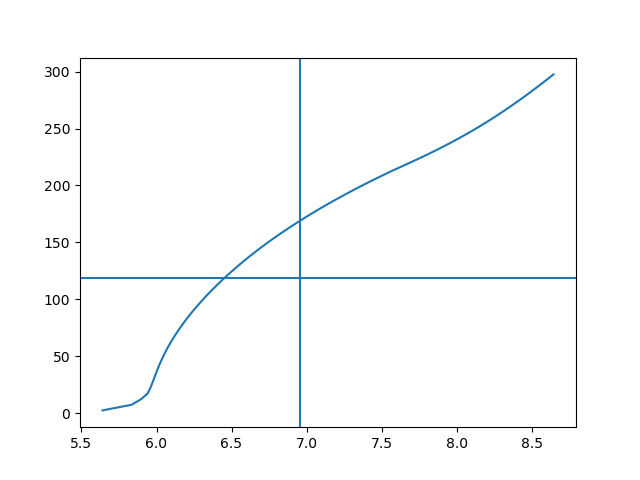
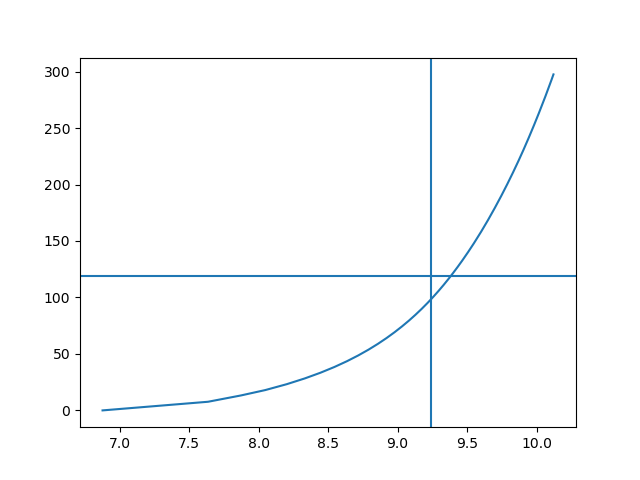
Initial changes to README.md

diff --git a/calculate_ct_single_turbine.py b/calculate_ct_single_turbine.py
@@ -8,7 +8,7 @@ import matplotlib.pyplot as plt
 import numpy as np
 import scipy.interpolate as sp
 
-for h in [1000,500,300,150]:
+for h in [150]:
 
     case_id = f'H{h}-C5-G4_st'
     print(case_id)
@@ -30,17 +30,17 @@ for h in [1000,500,300,150]:
     u_profile = np.mean(u[:,:,:60],axis=(0,1))
     v = f['v']
     v_profile = np.mean(v[:,:,:60],axis=(0,1))
-    plt.plot(u_profile, 1000*z[:60], c='b')
-    plt.plot(v_profile, 1000*z[:60], c='r')
-    plt.savefig('plots/precursor_profile.png')
+    #plt.plot(u_profile, 1000*z[:60], c='b')
+    #plt.plot(v_profile, 1000*z[:60], c='r')
+    #plt.savefig('plots/precursor_profile.png')
 
     speed = np.sqrt(u_profile**2+v_profile**2)
     #angle in degrees!
     angle = 180*np.arctan(v_profile/u_profile)/np.pi
-    plt.close()
-    plt.plot(speed, 1000*z[:60], c='b')
-    plt.plot(angle, 1000*z[:60], c='r')
-    plt.savefig('plots/precursor_speed.png')
+    #plt.close()
+    #plt.plot(speed, 1000*z[:60], c='b')
+    #plt.plot(angle, 1000*z[:60], c='r')
+    #plt.savefig('plots/precursor_speed.png')
 
     #interpolate to find velocity at hub height
     f_speed = sp.interp1d(1000*z[:60], speed, fill_value="extrapolate")
@@ -50,11 +50,23 @@ for h in [1000,500,300,150]:
 
     #calculate turbine force
     aux = h5py.File(f'/mnt/d/LES_data/{case_id}/aux_files.h5', 'r')
+    print(list(aux.keys()))
     force = aux['force']
+    power = aux['power']
     time = aux['time']
+    plt.figure(1)
+    plt.plot(time[:],force[:])
+    plt.axvline(75600)
+    #plt.ylim([1e6,1.5e6])
+    plt.savefig('plots/turbine_force.png')
     force_ave = np.mean(force[time[:]>75600,:])
     print(force_ave)
+    power_ave = np.mean(power[time[:]>75600,:])
+    print(power_ave)
 
     turbine_area = (np.pi*198**2)/4
     ct = force_ave / (0.5*turbine_area*u_infty**2)
     print(ct)
+
+    cp = power_ave / (0.5*turbine_area*u_infty**3)
+    print(cp)

diff --git a/calculate_hf.py b/calculate_hf.py
@@ -1,0 +1,69 @@
+"""Calculate farm-layer height H_F
+for precursor simulations
+"""
+
+import h5py
+import matplotlib.pyplot as plt
+import numpy as np
+import scipy.interpolate as sp
+
+case_id = f'H500-C5-G4_st'
+
+#vertical grid - use cell centered points  
+with open('/mnt/d/LES_data/zmesh','r') as file:       
+    Nz_full     = int(float(file.readline()))   
+    N_line = Nz_full+1
+    line = N_line*[0]
+    cnt = 0
+    for lines in file:
+        line[cnt]=lines.split()
+        cnt+=1       
+    z = np.array([float(line[k][0]) for k in range(int(Nz_full))])[1::2]
+
+#plot u and v profile from precursor simulation
+f = h5py.File(f'/mnt/d/LES_data/{case_id}/stat_precursor_first_order.h5', 'r')
+u = f['u']
+u_profile = np.mean(u[:,:,:120],axis=(0,1))
+v = f['v']
+v_profile = np.mean(v[:,:,:120],axis=(0,1))
+
+speed = np.sqrt(u_profile**2+v_profile**2)
+#angle in degrees!
+angle = np.arctan(v_profile/u_profile)
+
+#interpolate speed and velocity
+f_speed = sp.interp1d(1000*z[:120], speed, fill_value="extrapolate")
+f_angle = sp.interp1d(1000*z[:120], angle, fill_value="extrapolate")
+hubh_angle = f_angle(119)
+
+#turbine hub height
+h = 119
+#turbine diameter
+d = 198
+print(d,h)
+
+nz = 1000000
+z = np.linspace(-d/2,d/2,nz)
+
+#rotor section width
+width = 2*np.sqrt((d**2)/4 - z**2)
+u = f_speed(h+z)*np.cos(f_angle(h+z)-hubh_angle)
+
+#calculate U_T0
+area = np.sum(width*(d/nz))
+disc_vel = np.sum(u*width*(d/nz))/area
+print(disc_vel, f_speed(119))
+
+z = np.linspace(0,297.5,10000)
+speed_interp = f_speed(z)*np.cos(f_angle(z)-hubh_angle)
+plt.plot(speed_interp, z)
+plt.axhline(119)
+plt.axvline(9.24)
+plt.savefig('plots/u_profile.png')
+print(np.mean(speed_interp))
+
+disc_vel = np.sum(u**2*width*(d/nz))/area
+disc_vel = np.sqrt(disc_vel)
+print(disc_vel)
+
+

diff --git a/check_convergence.py b/check_convergence.py
@@ -1,0 +1,29 @@
+"""Check convergence of LES simulations
+"""
+
+import h5py
+import matplotlib.pyplot as plt
+import numpy as np
+import scipy.interpolate as sp
+
+case_id = f'H300-C5-G4'
+
+#load force and time from auxiliary file
+f = h5py.File(f'/mnt/d/LES_data/{case_id}/aux_files.h5', 'r')
+thrust = f['force']
+print(thrust.shape)
+time = f['time']
+plt.plot(time[:], np.mean(thrust, axis=1))
+plt.axvline(75600)
+plt.savefig('plots/turbine_force.png')
+
+#change averaging period
+thrust_ave = np.zeros(1800)
+
+for i in range(1800):
+    thrust_ave[i] = np.mean(thrust[range(-(i+2),-1),:])/np.mean(thrust[time[:]>75600,:])
+
+plt.close()
+plt.plot(thrust_ave)
+plt.axvline(1080)
+plt.savefig('plots/turbine_force_averaging_period_norm.png')

diff --git a/README.md b/README.md
@@ -1,1 +1,6 @@
 # LES_CNBL_analysis
+Clone github repository
+```
+git clone https://github.com/AndrewKirby2/LES_CNBL_analysis.git:wq
+```
+
